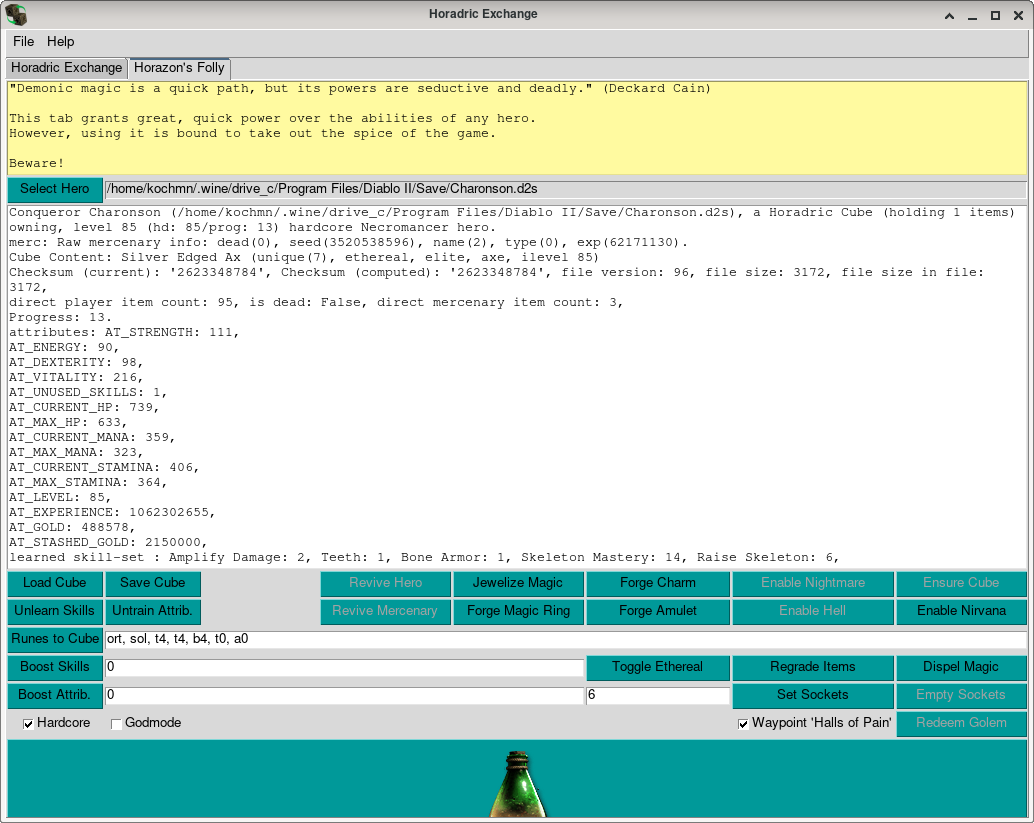
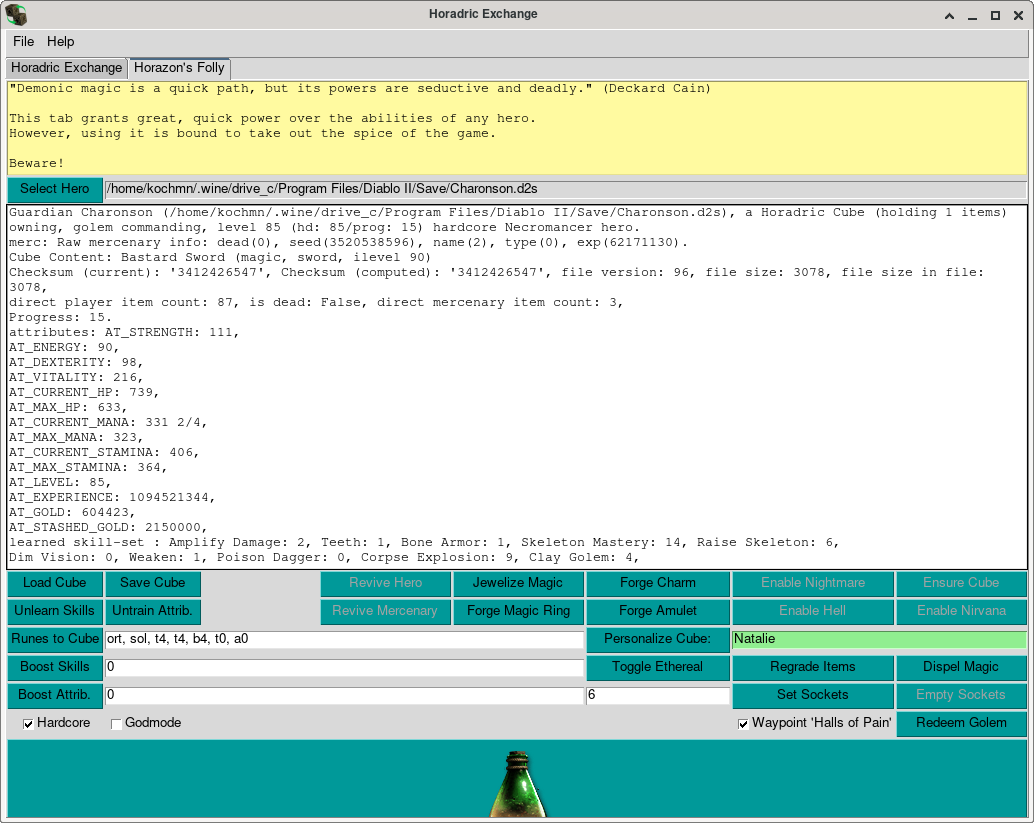
doc(wiki): Updated screenshot for horazons folly GUI.

diff --git a/src/horadric_exchange.py b/src/horadric_exchange.py
@@ -1011,7 +1011,7 @@ Beware!"""
         self.entry_personalize = tk.Entry(self.tab2, textvariable=var_personalize)
         self.entry_personalize.grid(row=5, column=4, columnspan=2, sticky='ew')
         self.entry_personalize.bind('<KeyRelease>', lambda ev: self.verify_personalization_name(var_personalize.get()))
-        self.button_personalize = tk.Button(self.tab2, text='Personalize to >>', command=lambda: self.personalize(var_personalize.get()), width=10, height=1, bg='#009999')
+        self.button_personalize = tk.Button(self.tab2, text='Personalize Cube:', command=lambda: self.personalize(var_personalize.get()), width=10, height=1, bg='#009999')
         self.button_personalize.grid(row=5, column=3, sticky='ew')
         Hovertip(self.button_personalize, 'Will dedicate extended items within the Horadric Cube with a name of your choosing. Or remove such a dedication.')
 
